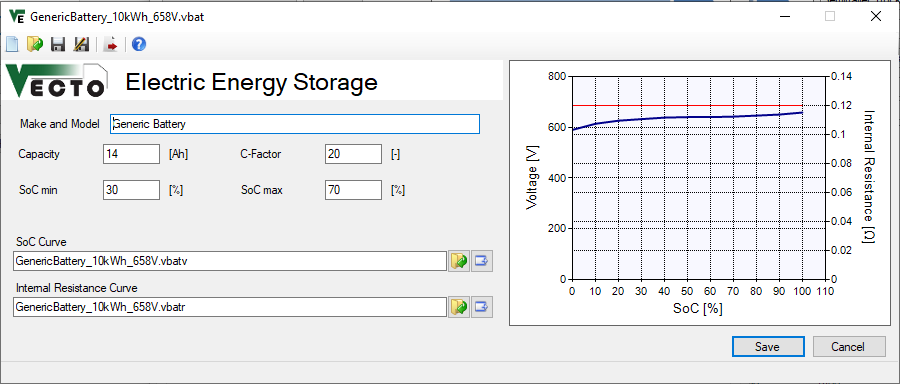
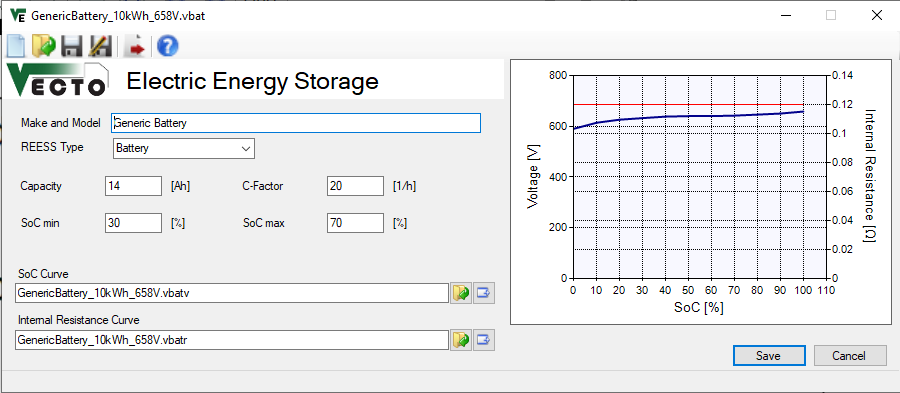
updating user manual

diff --git a/Documentation/User Manual/3-simulation-models/Electric_Motor.md b/Documentation/User Manual/3-simulation-models/Electric_Motor.md
@@ -4,7 +4,10 @@ The electric motor is modeled by basically 4 map files:
  - Maximum drive torque over motor speed
  - Maximum generation torque over motor speed
  - Drag curve (i.e., the motor is not energized) over motor speed
- - Electric power map
+ - Electric power map ($P_\textrm{map,el}$)
+ - Continuous power ($P_textrm{cont}$)
+ - Engine speed for continuous power ($n_\textrm{P,cont}$)
+ - Maximum overload time ($t_\textrm{ovl}$)
 
 The first two curves are read from a single .vemp file (see [Electric Motor Max Torque File (.vemp)](#electric-motor-max-torque-file-.vemp)). The drag curve is provided in a .vemd file (see [Electric Motor Drag Curve File (.vemd)](#electric-motor-drag-curve-file-.vemd)) and the electric power map in a .vemo file (see [Electric Motor Map (.vemo)](#electric-motor-map-.vemo)).
 
@@ -13,3 +16,22 @@ The convention for all input files is that positive torque values drive the vehi
 
 ![](pics/electric_motor_map.png)
 
+
+###Thermal De-Rating
+
+The electric machine can be overloaded for a certain period. In addition to the maximum drive and generation torque (which already is in overload condition) the mechanical power the electric machine can generate is required.
+
+The basic principal of the thermal de-rating is as follows: based on the continuous power and the angular velocity for the continuous power as well as the maximum overload time a thermal energy buffer is calculated. During the simulation the difference between the current losses in the electric machine and the losses at the continuous power operating point are integrated over time. If this value reaches the capacity of the thermal energy buffer the electric machine can only deliver the specified continuous power until the thermal energy buffer goes below a certain.
+
+
+$E_\textrm{th,buf} = P_\textrm{loss,cont} * t_\textrm{ovl}$
+
+$P_\textrm{loss,cont} = P_\textrm{map, el}(\frac{P_\textrm{cont}}{n_\textrm{P, cont}}, n_\textrm{P, cont}) - P_\textrm{cont}$
+
+In every simulation step the losses of the electric machine are accumulated:
+
+$E_{\textrm{ovl,} i + 1} = E_{\textrm{ovl,} i} + P_\textrm{loss, i} * dt$
+
+$P_\textrm{loss, i} = T_\textrm{em, mech} * n_\textrm{em} - P_\textrm{map, el}(T_\textrm{em, mech}, n_\textrm{em})$
+
+If $E_\textrm{ovl, i}$ reaches the overload capacity $E_\textrm{th,buf}$ the power of the electric machine is limited to the continuous power until $E_\textrm{ovl,i}$ goes below the overload capacity multiplied by a certain factor. Then the maximum torque is available again.

diff --git a/Documentation/User Manual/1-user-interface/M_BatteryPackEditor.md b/Documentation/User Manual/1-user-interface/M_BatteryPackEditor.md
@@ -1,23 +1,26 @@
-##Electric Energy Storage Editor
+##Rechargeable Electric Energy Storage Editor
+
+Two types of rechargeable electric energy storage can be configured in VECTO: either a battery pack or a super capacitor.
+
+###Battery Pack
 
 ![](pics/VECTO_Battery.png)
 
-
-###Description
+####Description
 
 The electric energy storage editor allows to edit all model parameters relevant for the electric energy storage.
 
-###Relative File Paths
+####Relative File Paths
 
 It is recommended to use relative filepaths. This way the Job File and all input files can be moved without having to update the paths. 
 
 VECTO automatically uses relative paths if the input file (e.g. SoC) is in the same directory as the Battery file. (The Battery File must be saved before browsing for input files.)
 
 
-###Main Parameters
+####Main Parameters
 
 Make and Model
-:   Free text defining the gearbox model, type, etc.
+:   Free text defining the model, type, etc.
 
 Capacity \[Ah\]
 :   Nominal capacity of the battery
@@ -38,9 +41,31 @@ Internal Resistance Curve
 :   Defines the battery's internal resistance depending on its state of charge. The file must cover the SOC range from 0 to 100%! (see [Battery Internal Resistance File (.vbatr)](#battery-internal-resistance-file-.vbatv))
 
 
-###Chart Area
+####Chart Area
 
 The Chart Area displays the battery's internal voltage (blue) and the internal resistance (red) over its state of charge.
+
+
+###SuperCap
+
+![](pics/VECTO_SuperCap.png)
+
+####Main Parameters
+
+Make and Model
+:   Free text defining the model, type, etc.
+
+Capacity \[F\]
+:   Nominal capacity of the capacitor
+
+Min Voltage \[V\]
+:   Minimum allowed state of charge
+
+Max Voltage \[v\]
+:   Maximum allowed state of charge
+
+Internal Resistance
+:   Defines the capacitor's internal resistance 
 
 
 ###Controls

diff --git a/Documentation/User Manual/1-user-interface/L_ElectricMotor.md b/Documentation/User Manual/1-user-interface/L_ElectricMotor.md
@@ -22,6 +22,18 @@ Make and Model
 Inertia \[kgm²\]
 :   Rotational inertia of the gearbox (constant for all gears). (Engineering mode only)
 
+Continuous Power \[W\]
+:    The nominal power the electric machine can provide continuously
+
+Rated Speed (cont. Pwr) \[rpm\]
+:    Speed applied when determining the continuous power. Used for determining the continuous losses in the overload model
+
+Peak Performance Time \[s\]
+:    The time interval the electric machine can operate at its peak performance
+
+Thermal Overload Recovery Factor
+:    The accumulated overload energy has to be below the max. overload capacity multiplied by this factor so that the peak power is available again.
+
 Max. Drive and Max. Generation Torque Curve
 :   Torque over engine speed the electric motor can apply on its output shaft. (see [Electric Motor Max Torque File (.vemp)](#electric-motor-max-torque-file-.vemp))
 
@@ -35,7 +47,7 @@ Electric Power Consumption Map
 
 ###Chart Area
 
-The Chart Area displays the electric machine's max. drive curve and max. generation curve (blue), the drag curve (green) and the entries provided in the electric power consumption map.
+The Chart Area displays the electric machine's max. drive curve and max. generation curve (blue), the drag curve (green) and the entries provided in the electric power consumption map (red).
 
 
 ###Controls

diff --git a/Documentation/User Manual/3-simulation-models/Electric_Storage.md b/Documentation/User Manual/3-simulation-models/Electric_Storage.md
@@ -1,6 +1,8 @@
 ##RESS
 
-The rechargable electrictric energy storage system uses the following model parameters:
+###Battery
+
+The battery model uses the following model parameters:
 
 - Capacity of the battery pack
 - C-Factor (limits the max. current for charging/discharging)
@@ -21,3 +23,16 @@ The maximum discharge current is further limited by the battery's internal resis
 
 $I_\textrm{disch,max} = \frac{U(\textrm{SoC})}{4 * R_i(\textrm{SoC})}$
 
+
+###Super Capacitor
+
+The super capacitor model uses the following model parameters:
+
+- Capacity of the SuperCap in Farad
+- Internal resistance
+- Minimum voltage
+- Maximum voltage
+- Maximum current charging
+- Maximum current discharging
+
+The values of maximum charging current and maximum discharging current need to be positive!
